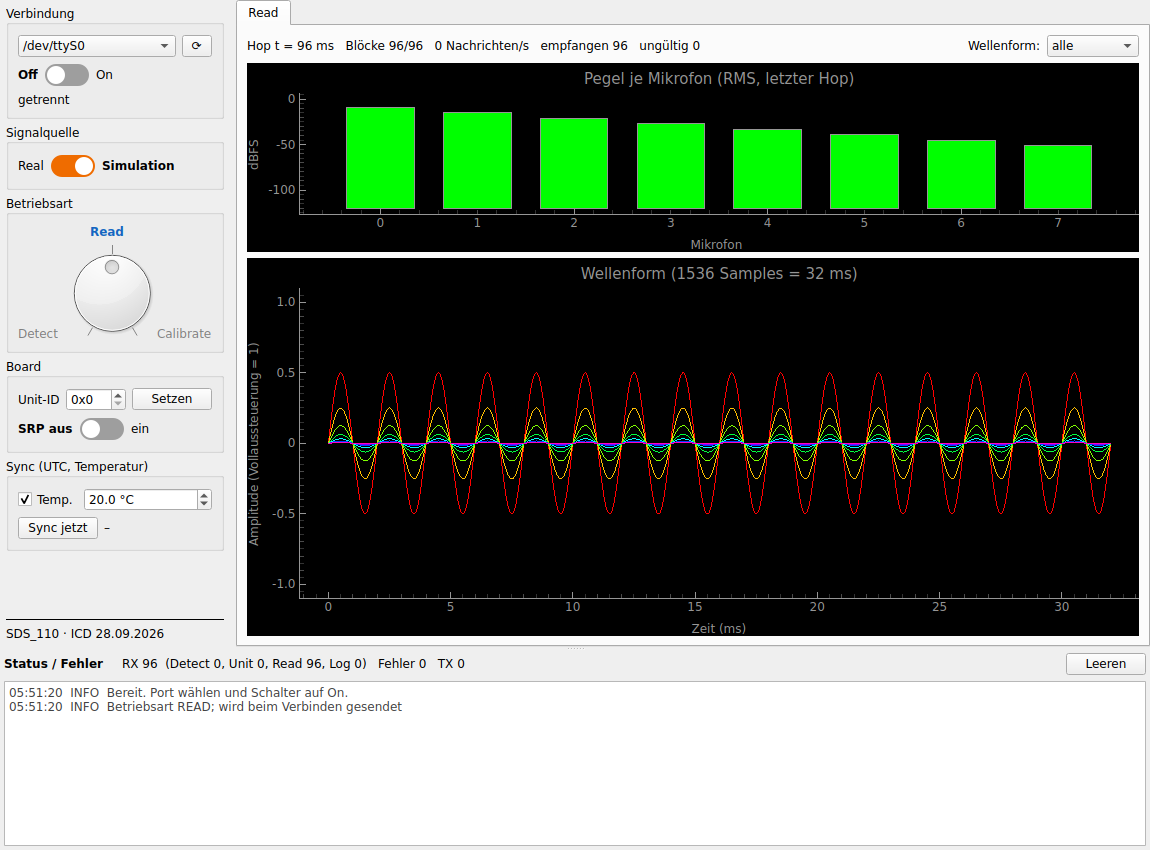
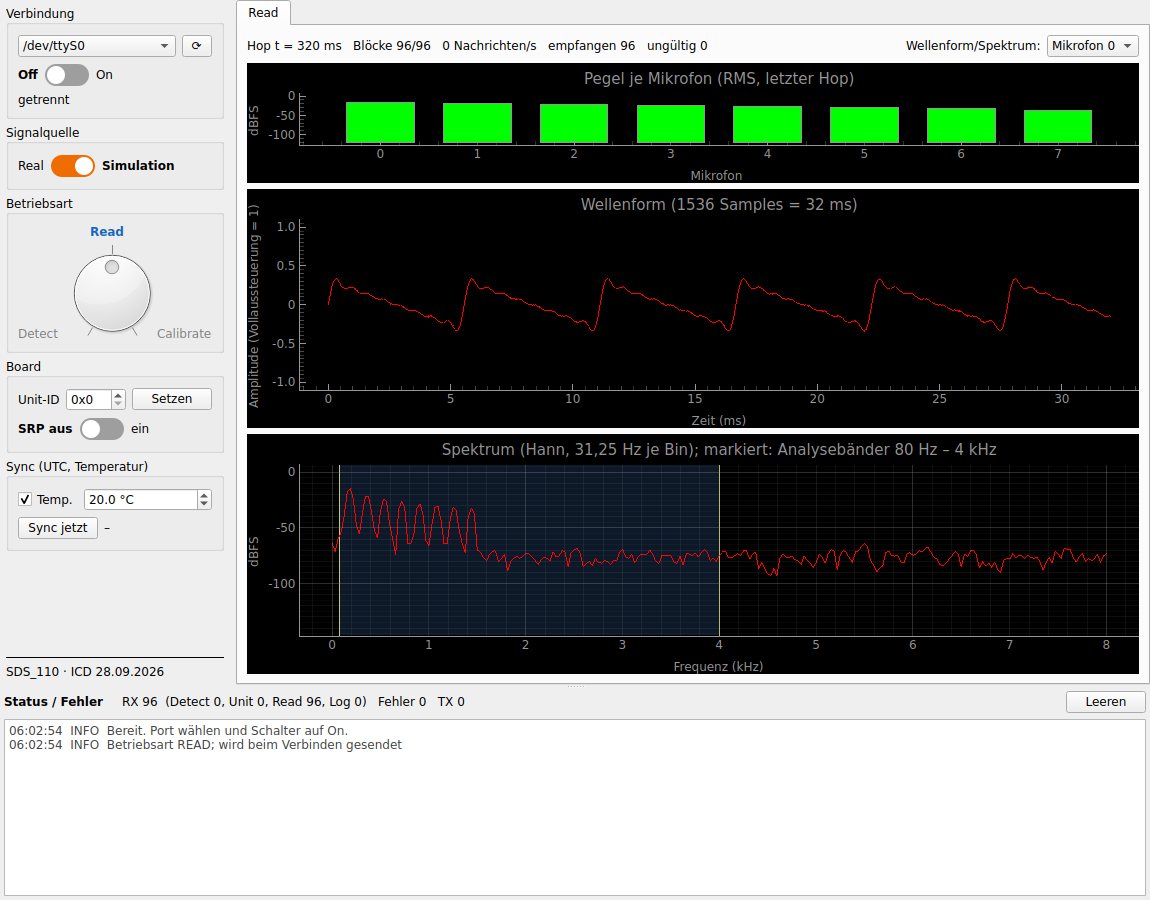
T4: Spektrum je Mikrofon im Read-Tab
- Hann-Fenster über den Hop (1536 Punkte, 31,25 Hz je Bin), 0-8 kHz in dBFS, Sinus mit
  Amplitude A = 20*log10(A); Analysebänder 80 Hz - 4 kHz markiert; Auswahl Mikrofon/alle
- Test: Spitze und Pegel (± 0,1 dB) je Mikrofon; Lasttest weiterhin ohne Blockieren
- Analyse_ToDo: T4 erledigt

Claude-Session: https://claude.ai/code/session_01J5Zw3oeX5xD9rkdzBfaGfi

diff --git a/app/tabs/tab_read.py b/app/tabs/tab_read.py
@@ -5,6 +5,10 @@ Jede Read-Nachricht (Id 2, 532 Byte) enthält 128 Samples **eines** Mikrofons (m
 Block frameNr 0…11 eines Hops (1536 Samples, 32 ms), als int32 skaliert auf 24 Bit (±2²³).
 Im Modus READ kommen ~3000 Nachrichten/s: update_frame() legt die Samples nur in den Hop-Puffer
 (billig); gezeichnet wird mit höchstens REFRESH_HZ und nur, wenn der Tab sichtbar ist.
+
+Anzeige: Pegel je Mikrofon (RMS, dBFS), Wellenform und Spektrum des letzten Hops (Hann-Fenster,
+1536 Punkte, 31,25 Hz je Bin; normiert so, dass ein Sinus mit Amplitude A als 20·log10(A) dBFS
+erscheint). Markiert ist der Bereich der Analysebänder 80 Hz … 4 kHz (FSL9 §2).
 """
 import struct
 import time
@@ -20,6 +24,11 @@ BLOCKS_PER_HOP = 12
 HOP = BLOCK * BLOCKS_PER_HOP                  # 1536
 FULL_SCALE = float(1 << 23)
 FRAME_LEN = 532
+SAMPLE_RATE = 48000
+BAND_LO_HZ, BAND_HI_HZ = 80.0, 4000.0
+SPEC_MAX_HZ = 8000.0                          # Bandpass der Vorverarbeitung 118: 80 Hz … 8 kHz
+WINDOW = np.hanning(HOP)
+FREQS = np.fft.rfftfreq(HOP, 1.0 / SAMPLE_RATE)
 
 
 class TabRead(QWidget):
@@ -43,7 +52,7 @@ class TabRead(QWidget):
         self.mic_combo.setCurrentIndex(N_MICS)
         self.mic_combo.currentIndexChanged.connect(lambda _: self._mark())
         top.addWidget(self.info_label, 1)
-        top.addWidget(QLabel("Wellenform:"))
+        top.addWidget(QLabel("Wellenform/Spektrum:"))
         top.addWidget(self.mic_combo)
         lay.addLayout(top)
 
@@ -69,6 +78,21 @@ class TabRead(QWidget):
         self.t_ms = np.arange(HOP) / 48.0
         self.curves = [self.wave_plot.plot(pen=pg.intColor(m, N_MICS)) for m in range(N_MICS)]
         lay.addWidget(self.wave_plot, 2)
+
+        # Spektrum des Hops
+        self.spec_plot = pg.PlotWidget()
+        ps = self.spec_plot.getPlotItem()
+        ps.setTitle("Spektrum (Hann, 31,25 Hz je Bin); markiert: Analysebänder 80 Hz – 4 kHz")
+        ps.setLabel("left", "dBFS")
+        ps.setLabel("bottom", "Frequenz", units="Hz")
+        self.spec_plot.setXRange(0, SPEC_MAX_HZ)
+        self.spec_plot.setYRange(-140, 0)
+        ps.showGrid(x=True, y=True, alpha=0.3)
+        band = pg.LinearRegionItem(values=(BAND_LO_HZ, BAND_HI_HZ), movable=False,
+                                   brush=pg.mkBrush(80, 160, 255, 40))
+        self.spec_plot.addItem(band)
+        self.spec_curves = [self.spec_plot.plot(pen=pg.intColor(m, N_MICS)) for m in range(N_MICS)]
+        lay.addWidget(self.spec_plot, 2)
 
         self.timer = QTimer(self)
         self.timer.timeout.connect(self.refresh)
@@ -102,6 +126,19 @@ class TabRead(QWidget):
         rms = np.sqrt(np.mean(x * x, axis=1))
         return 20.0 * np.log10(np.maximum(rms, 1e-6))
 
+    def spectrum_dbfs(self) -> np.ndarray:
+        """Betrag je Mikrofon und Bin in dBFS (Sinus mit Amplitude A -> 20·log10(A))."""
+        x = self.samples.astype(np.float64) / FULL_SCALE
+        mag = np.abs(np.fft.rfft(x * WINDOW, axis=1)) * (2.0 / WINDOW.sum())
+        return 20.0 * np.log10(np.maximum(mag, 1e-7))
+
+    def peak(self, mic: int):
+        """(Frequenz in Hz, Pegel in dBFS) des stärksten Bins ab BAND_LO_HZ."""
+        s = self.spectrum_dbfs()[mic]
+        lo = int(np.searchsorted(FREQS, BAND_LO_HZ))
+        k = lo + int(np.argmax(s[lo:]))
+        return float(FREQS[k]), float(s[k])
+
     def refresh(self):
         now = time.monotonic()
         if now - self._rate_t0 >= 1.0:
@@ -113,11 +150,15 @@ class TabRead(QWidget):
         lv = self.levels_dbfs()
         self.level_bars.setOpts(height=lv + 120.0)
         sel = self.mic_combo.currentIndex()
-        for m, c in enumerate(self.curves):
+        spec = self.spectrum_dbfs()
+        show = FREQS <= SPEC_MAX_HZ
+        for m, (c, sc) in enumerate(zip(self.curves, self.spec_curves)):
             if sel == N_MICS or sel == m:
                 c.setData(self.t_ms, self.samples[m] / FULL_SCALE)
+                sc.setData(FREQS[show], spec[m][show])
             else:
                 c.setData([], [])
+                sc.setData([], [])
         complete = int(self.filled.sum())
         self.info_label.setText(
             f"Hop t = {self.last_ts} ms   Blöcke {complete}/{N_MICS * BLOCKS_PER_HOP}   "

diff --git a/tests/test_read_load.py b/tests/test_read_load.py
@@ -81,3 +81,25 @@ def test_read_mode_under_board_load():
     assert np.allclose(lv, exp, atol=0.1), (lv, exp)
     assert "Blöcke 96/96" in w.read_tab.info_label.text()
     w.close()
+
+
+def test_read_tab_spectrum_and_levels():
+    """Sinus je Mikrofon (Frequenz auf einem Bin): Spitze bei f, Pegel = 20·log10(A) dBFS, RMS = A/√2."""
+    app = QApplication.instance() or QApplication([])
+    w = MainWindow()
+    reader = USBReader(None, w.model)
+    freqs = [250.0 + 250.0 * m for m in range(8)]          # 250 … 2000 Hz, Vielfache von 31,25 Hz
+    amps = [0.5 / 2 ** m for m in range(8)]
+    n = np.arange(1536)
+    hop = []
+    for m in range(8):
+        x = (amps[m] * FULL_SCALE * np.sin(2 * np.pi * freqs[m] * n / 48000)).astype(np.int32)
+        hop += [F.read_block(mic=m, block=b, samples=x[b * BLOCK:(b + 1) * BLOCK].tolist(), ts=7) for b in range(12)]
+    reader.handle_bytes(b"".join(hop))
+    w.process_queue()
+    for m in range(8):
+        f, lv = w.read_tab.peak(m)
+        assert f == freqs[m], (m, f)
+        assert abs(lv - 20 * np.log10(amps[m])) < 0.1, (m, lv)
+    w.read_tab.show(); w.read_tab.refresh()                 # Zeichnen ohne Fehler
+    w.close()

diff --git a/docs/Analyse_ToDo.md b/docs/Analyse_ToDo.md
@@ -114,7 +114,11 @@ Tests ohne Hardware (`python -m pytest tests/test_protocol.py tests/test_gui.py 
   - Ablauf: 96 Nachrichten je 32 ms für 2 s, während die Ereignisschleife läuft.
   - Ergebnis: Alle 6048 Nachrichten kommen an, ein Poll dauert höchstens 1,2 ms, die Ereignisschleife pausiert höchstens 32 ms, und die Pegel stimmen auf 0,1 dB.
   - Gegenprobe: Mit dem alten Stand hängt derselbe Test.
-- **Offen aus T4:** ein Spektrum je Mikrofon.
+- **Spektrum (ergänzt):**
+  - Hann-Fenster über den Hop (1536 Punkte, 31,25 Hz je Bin), Anzeige 0–8 kHz in dBFS.
+  - Normiert so, dass ein Sinus mit Amplitude A als 20·log10(A) erscheint.
+  - Markiert ist der Bereich der Analysebänder 80 Hz – 4 kHz.
+  - Test: Spitze auf der richtigen Frequenz und mit dem richtigen Pegel (± 0,1 dB) für 8 Mikrofone.
 
 ![Read](gui_read.png)
 
@@ -125,7 +129,7 @@ Tests ohne Hardware (`python -m pytest tests/test_protocol.py tests/test_gui.py 
 | T1 | erledigt | Den Reader auf `SDSParser` umstellen: Byte-Resync auf das Magic, Längengrenzen je Id, CRC prüfen, Zähler je Fehlerart | P3, P4, P5, P12 | klein |
 | T2 | erledigt | UnitReport Id 5 parsen: µs-Zeit und Quelle, Paare, Residuum, Bänder mit p_b, Anzeige im Detect-Tab (Balken p_b je Band). Logger Id 99 als INFO ins Status-Fenster. | P6 | mittel |
 | T3 | erledigt | Sync Id 7 senden: beim Verbinden und dann jede Minute, UTC in µs und Temperatur aus einem Eingabefeld (später Sensor). Außerdem Unit-ID Id 5 und einen Schalter SRP-Referenz Id 6 ins Bedienfeld. | P7 | klein |
-| T4 | erledigt (ohne Spektrum) | Den Read-Tab neu bauen: Hop aus 8 × 12 Blöcken zusammensetzen, int32 lesen, Pegel je Mikrofon in dBFS, Wellenform und Spektrum. Anzeige mit höchstens 10 Hz, Queues begrenzen. | P10, P11 | mittel |
+| T4 | erledigt | Den Read-Tab neu bauen: Hop aus 8 × 12 Blöcken zusammensetzen, int32 lesen, Pegel je Mikrofon in dBFS, Wellenform und Spektrum. Anzeige mit höchstens 10 Hz, Queues begrenzen. | P10, P11 | mittel |
 | T5 | mittel | Azimut-Konvention mit der Firmware festlegen (FSL9 A28: ab Nord). Detect-Plot danach ausrichten, Achsen automatisch skalieren, Verlauf der Ziele. | P8, P9 | klein |
 | T6 | mittel | Einen USB-Abbruch erkennen: Reader meldet den Abbruch, der Schalter geht auf Off, Fehlermeldung | P16 | klein |
 | T7 | hoch | Mehrere Einheiten: je Einheit ein Port bzw. eine Unit-ID, Positionen konfigurierbar. PC-Teil von 126 und 128 (Multilateration N ≥ 3, gemeinsamer Modus N = 2) und Candidate Report (130). Dafür muss die Firmware Spektren oder TDOA je Einheit liefern (Architektur klären). | P17, P19 | groß |
